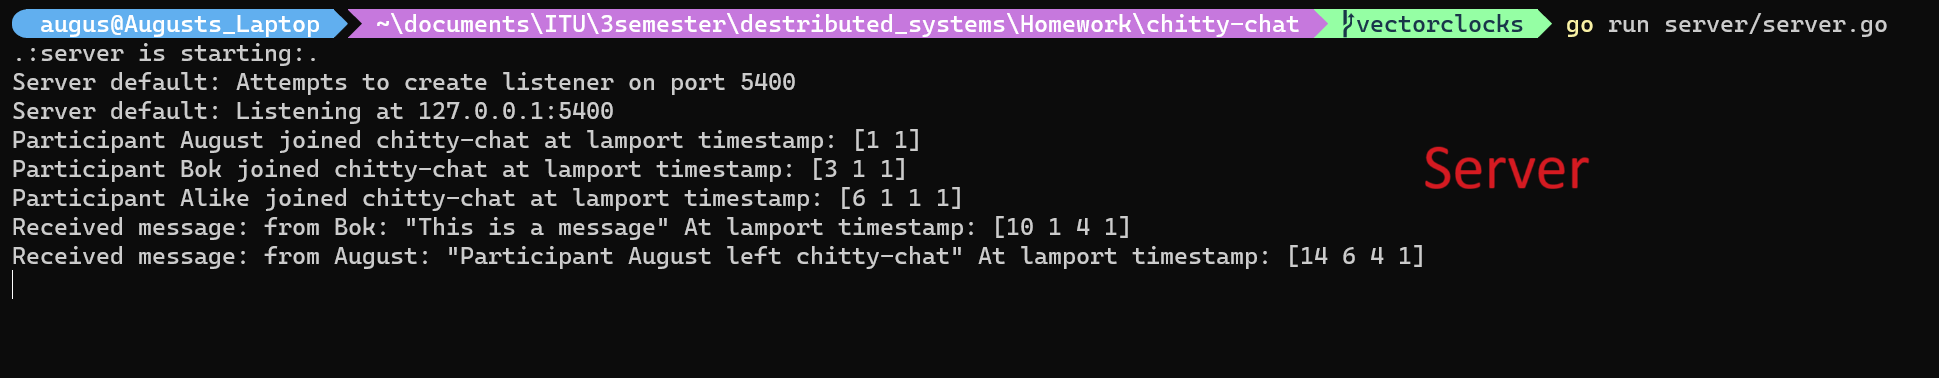
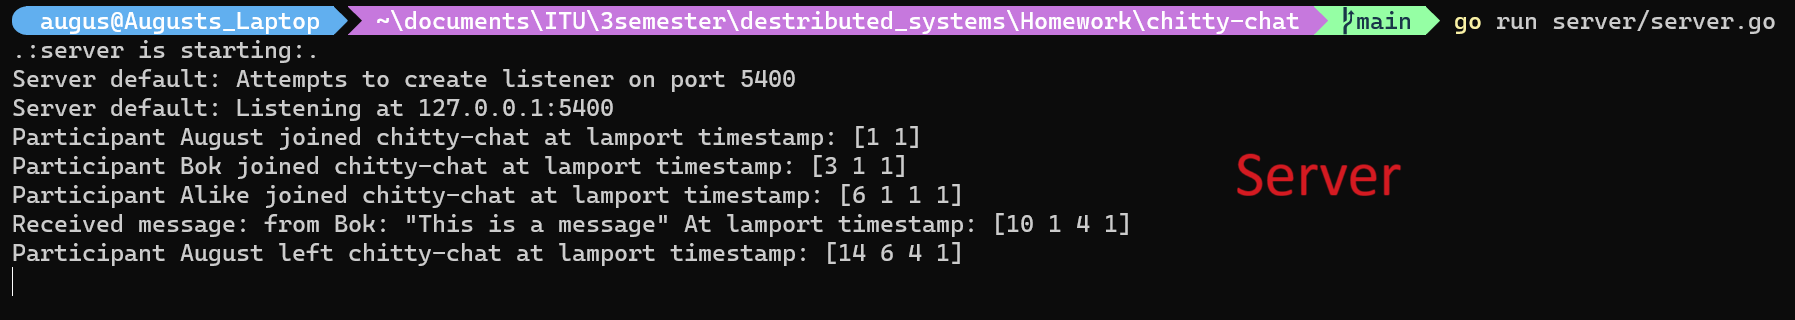
fix client disconnecting

Changed region(s): [[0.0, 0.0, 0.9983, 0.8438], [0.6864, 0.375, 0.8423, 0.625]]

diff --git a/client/client.go b/client/client.go
@@ -116,17 +116,6 @@ func parseInput(stream gRPC.Chat_MessageStreamClient) {
 			continue
 		}
 
-		// when one client disconnects, broadcast the event to other clients
-		if input == "exit" {
-			chatServer.DisconnectFromServer(context.Background(), &gRPC.ClientName{ClientName: *clientsName})
-			os.Exit(1)
-		}
-
-		if !conReady(chatServer) {
-			log.Printf("Participant %s: something was wrong with the connection to the server :(", *clientsName)
-			continue
-		}
-
 		if input == "exit" {
 			SendMessage("Participant "+*clientsName+" left chitty-chat", stream)
 			//chatServer.DisconnectFromServer(stream.Context(), &gRPC.ClientName{ClientName: *clientsName})
@@ -169,15 +158,7 @@ func SendMessage(content string, stream gRPC.Chat_MessageStreamClient) {
 		VectorClock: vectorClock,
 	}
 
-	i := 0
-
-	if i == 0 {
-		i++
-		stream.Send(message)
-	} else {
-		//stream.Send(message)
-		stream.Send(message) // Server for some reason only reads every second message sent so this is just to clear the "buffer"
-	}
+	stream.Send(message)
 }
 
 // watch the god

diff --git a/server/server.go b/server/server.go
@@ -92,9 +92,6 @@ func DeleteUser(clientName string) {
 	if clientName != "" {
 		//Deletes the client from the clientNames map
 		delete(clientNames, clientName)
-
-		fmt.Printf("%s has diconnected At lamport timestamp: %d \n", clientName, vectorClock)
-		log.Printf("%s has diconnected At lamport timestamp: %d\n", clientName, vectorClock)
 	}
 }
 
@@ -129,7 +126,7 @@ func (s *chatServer) MessageStream(msgStream gRPC.Chat_MessageStreamServer) erro
 
 			hasher = nil
 
-		} else if strings.Contains(msg.Content, "Participant "+msg.ClientName+": left chitty-chat") {
+		} else if strings.Contains(msg.Content, "Participant "+msg.ClientName+" left chitty-chat") {
 			// Counts the clients vector clock up
 			UpdateVectorClock(msg.VectorClock)
 

diff --git a/proto/template_grpc.pb.go b/proto/template_grpc.pb.go
@@ -1,7 +1,7 @@
 // Code generated by protoc-gen-go-grpc. DO NOT EDIT.
 // versions:
 // - protoc-gen-go-grpc v1.3.0
-// - protoc             v4.24.4
+// - protoc             v4.24.3
 // source: proto/template.proto
 
 package proto

diff --git a/proto/template.pb.go b/proto/template.pb.go
@@ -1,7 +1,7 @@
 // Code generated by protoc-gen-go. DO NOT EDIT.
 // versions:
 // 	protoc-gen-go v1.31.0
-// 	protoc        v4.24.4
+// 	protoc        v4.24.3
 // source: proto/template.proto
 
 package proto
